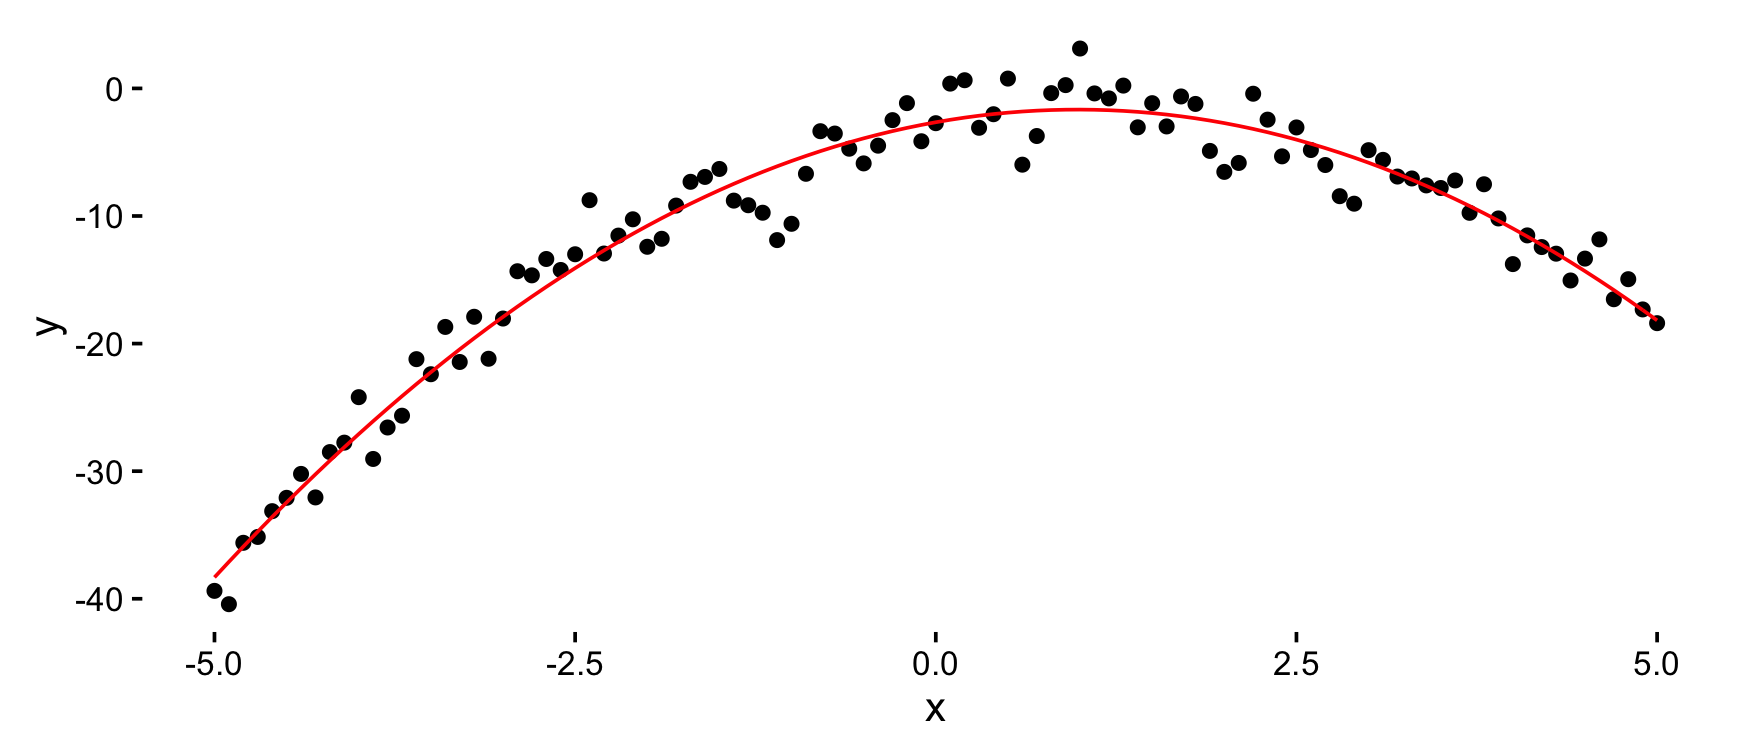
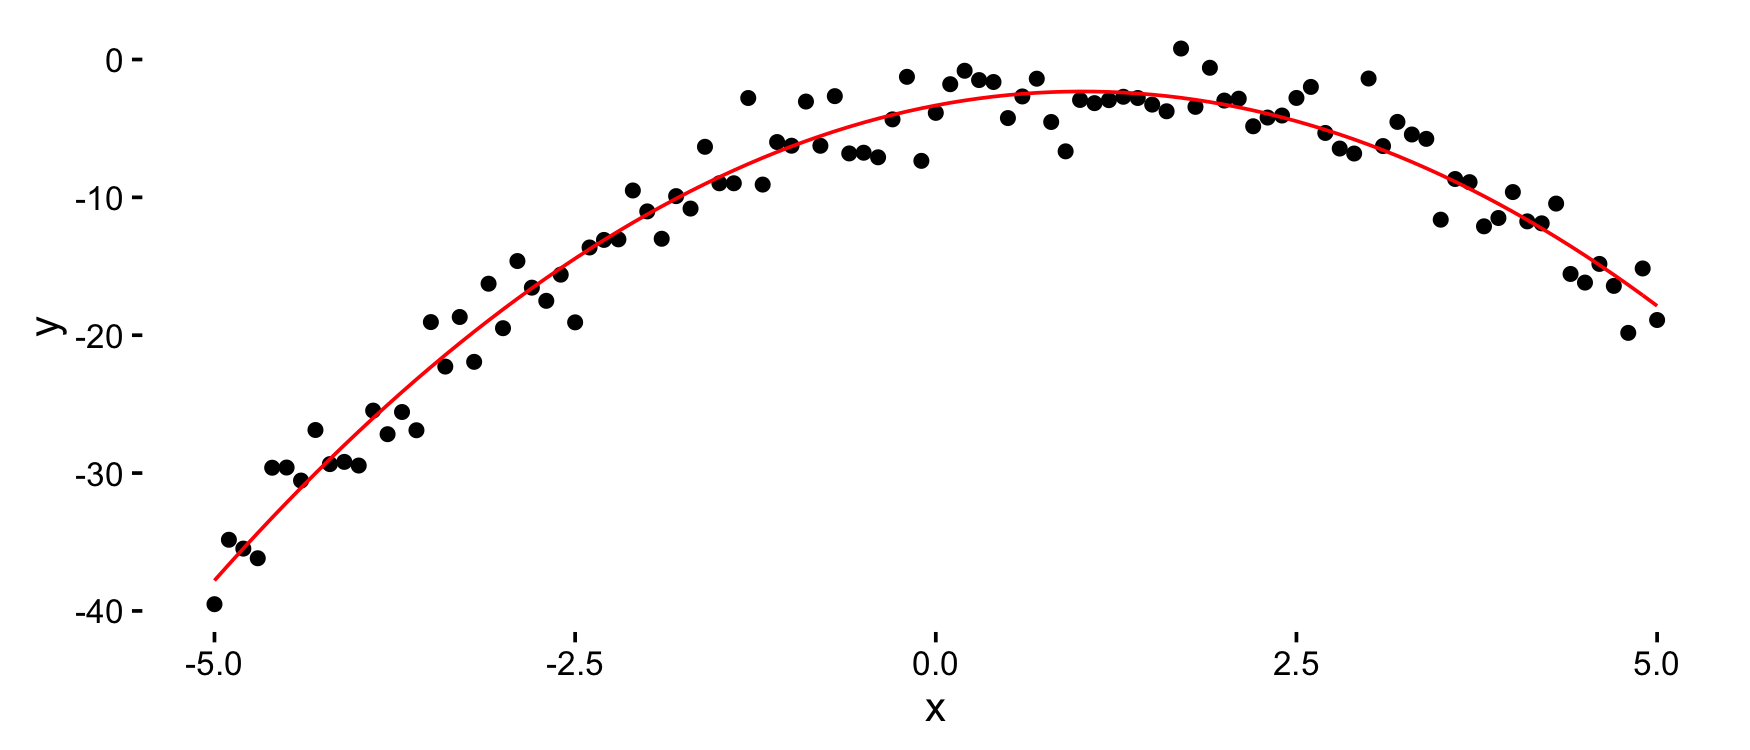
re-build readme

diff --git a/README.md b/README.md
@@ -448,7 +448,6 @@ You can use the `bernsteinApprox()` function to compute the Bernstein polynomial
 
 ``` r
 p <- bernsteinApprox(dnorm, 15, -1.25, 1.25)
-# 0.4 x  +  0.50.588046 temp  +  0.1083736 temp^2  -  1.008848 temp^3  -  0.3526079 temp^4  +  0.752947 temp^5  +  0.170519 temp^6  -  0.2879303 temp^7  -  0.01536099 temp^8  +  0.0515204 temp^9  -  0.003705707 temp^10  -  0.00345877 temp^11  +  0.0004595094 temp^12  +  0.00005397795 temp^13  -  0.000007711137 temp^14  -  0.000000000000009103829 temp^15  +  0.1826491
 round(p, 4)
 # -0.1624 x^2  +  0.0262 x^4  -  0.002 x^6  +  0.0001 x^8  +  0.3796
 
@@ -546,7 +545,7 @@ mod <- lm(y ~ x + I(x^2), data = df)
 # debug at /Users/david_kahle/Dropbox/dev/mpoly/mpoly/R/as.mpoly.R#86: coef_names <- str_replace_all(coef_names, " \\* ", " ")
 # debug at /Users/david_kahle/Dropbox/dev/mpoly/mpoly/R/as.mpoly.R#87: mp_str <- paste(coefs, coef_names, sep = " ", collapse = " + ")
 # debug at /Users/david_kahle/Dropbox/dev/mpoly/mpoly/R/as.mpoly.R#88: mp(mp_str)
-# 2.014 x  -  1.024 x^2  -  2.651
+# 1.992 x  -  0.98 x^2  -  3.331
 qplot(x, y, data = df) +
   stat_function(fun = as.function(p), colour = 'red')
 # f(.) with . = x
